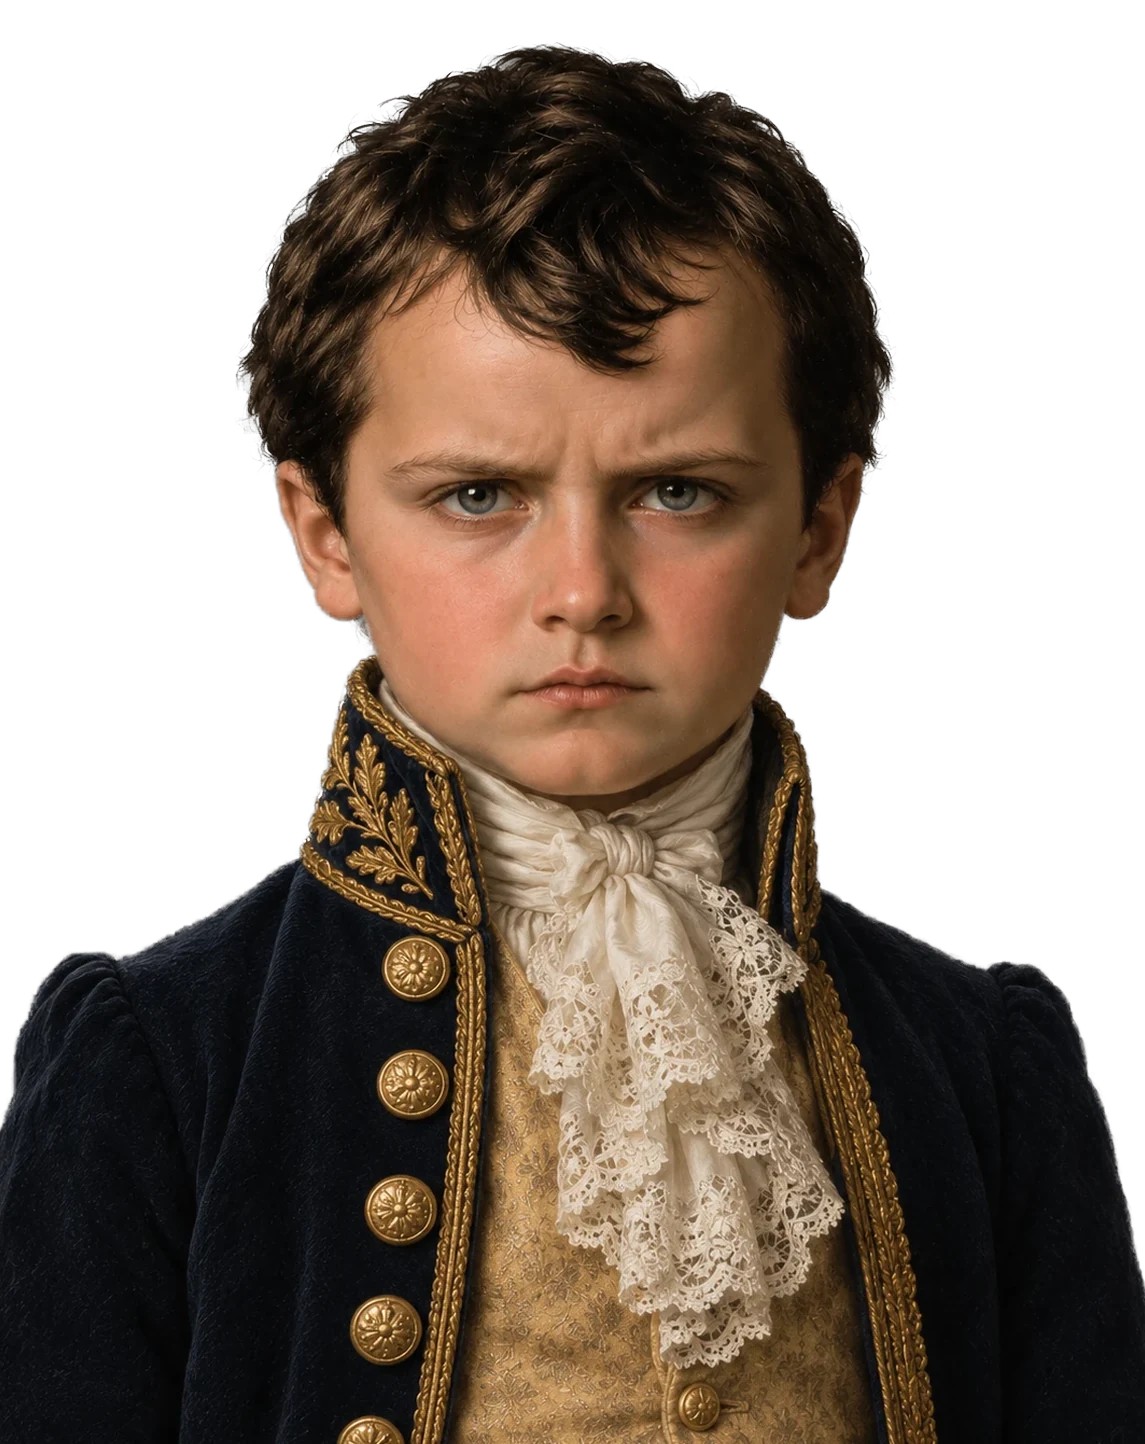
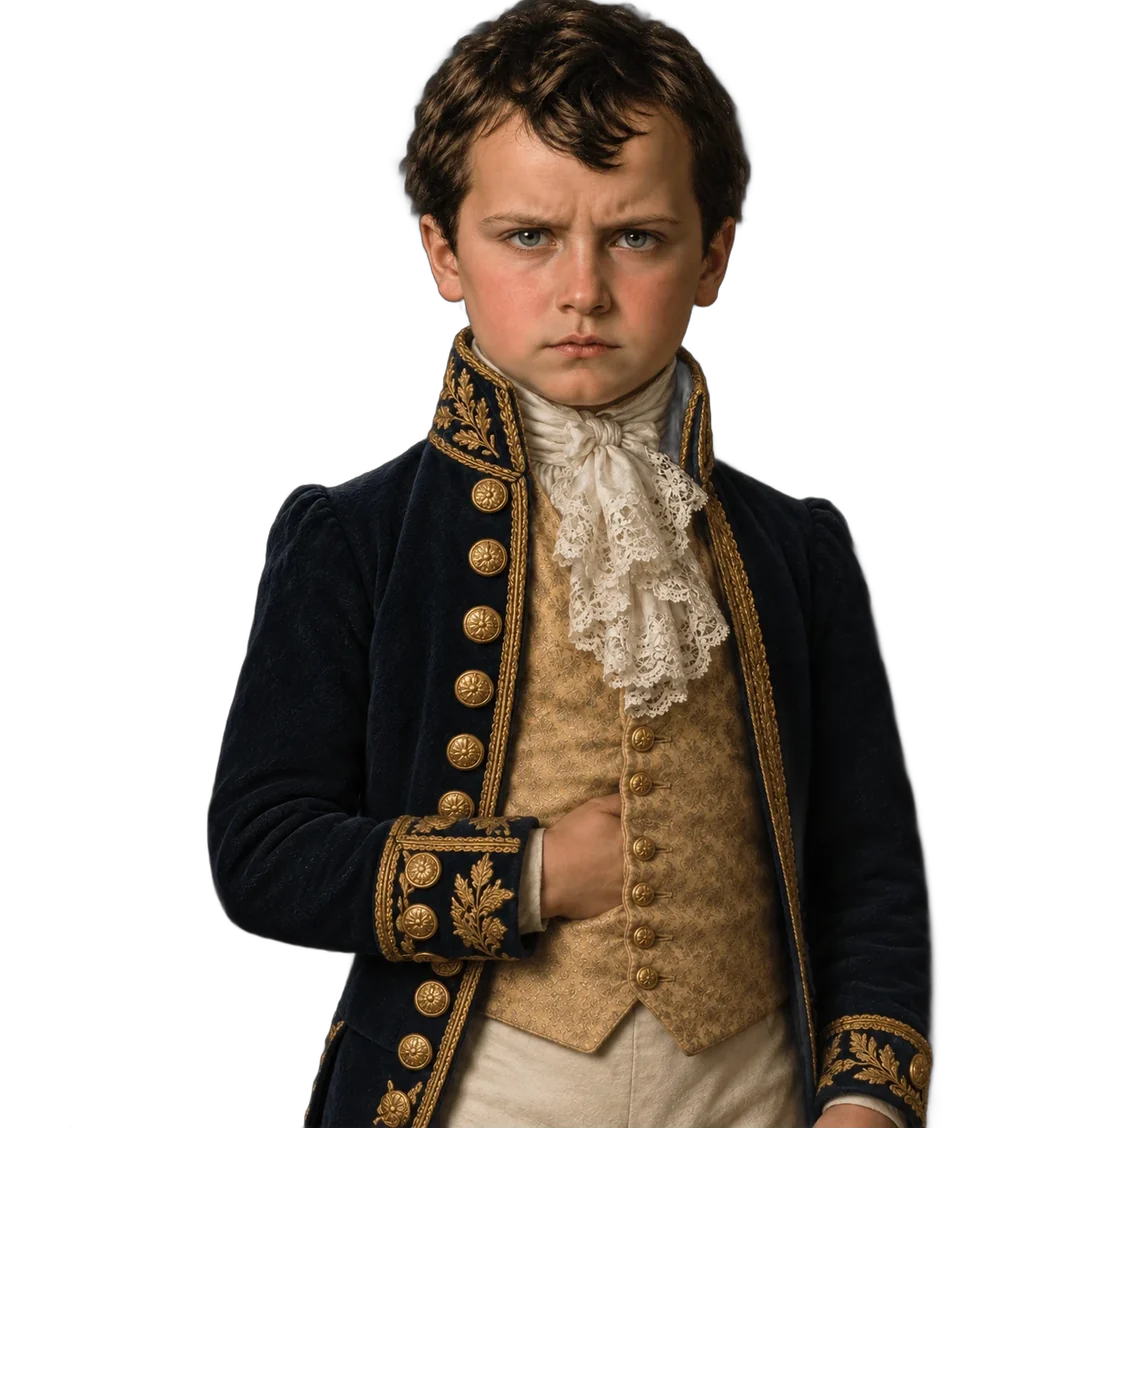
Grotte Napoléon : Napoléon et l'enfant cadrés jusqu'à la taille
Claude-Session: https://claude.ai/code/session_01Tg9JuPFfiTJrQ2axzwAjp1

diff --git a/clients/la-grotte-napoleon/grotte.css b/clients/la-grotte-napoleon/grotte.css
@@ -175,10 +175,12 @@ main>section:not(.chapeau),main>div,.pied{position:relative;z-index:1}
    au même endroit ; l'image a 70 px de plus en haut pour ses cheveux, d'où le décalage de 70/1444) ;
    quand le bicorne se pose, il devient l'Empereur de la tête aux pieds, comme un rideau qui descend (grotte.js) */
 /* l'enfant, lui, reste visible sous la même ligne (--le, la ligne ramenée à son cadre) : la transformation descend de la tête vers le corps */
-.portrait .enfant{position:absolute;left:0;top:0;width:100%;height:auto;max-width:none;transform:translateY(-4.8476%);-webkit-mask-image:linear-gradient(to bottom,transparent calc(var(--le,-1) * 100% - 14.27%),#000 calc(var(--le,-1) * 100% + 14.27%)),linear-gradient(to right,transparent 0,#000 7%,#000 93%,transparent 100%);-webkit-mask-composite:source-in;mask-image:linear-gradient(to bottom,transparent calc(var(--le,-1) * 100% - 14.27%),#000 calc(var(--le,-1) * 100% + 14.27%)),linear-gradient(to right,transparent 0,#000 7%,#000 93%,transparent 100%);mask-composite:intersect}
+.portrait .enfant{position:absolute;left:0;top:0;width:100%;height:auto;max-width:none;-webkit-mask-image:linear-gradient(to bottom,transparent calc(var(--le,-1) * 100% - 15%),#000 calc(var(--le,-1) * 100% + 15%)),linear-gradient(to right,transparent 0,#000 7%,#000 93%,transparent 100%);-webkit-mask-composite:source-in;mask-image:linear-gradient(to bottom,transparent calc(var(--le,-1) * 100% - 15%),#000 calc(var(--le,-1) * 100% + 15%)),linear-gradient(to right,transparent 0,#000 7%,#000 93%,transparent 100%);mask-composite:intersect}
 @media (prefers-reduced-motion:reduce){.portrait .enfant{display:none}}
 /* le bicorne enfoncé sur la tête comme sur les tableaux : le bord juste au-dessus des sourcils */
 .bicorne{position:absolute;left:5%;top:-13%;width:90%;height:auto;transform-origin:50% 85%;will-change:transform;filter:drop-shadow(0 18px 22px rgba(0,0,0,.45))}
+.portrait:not(.sacre):not(.josephine) .bicorne{left:27.2%;top:-4.8%;width:47.07%}  /* napoleon.webp cadré jusqu'à la taille (3 novembre 2026) : la tête y est 1,91 fois plus petite */
+.portrait:not(.sacre):not(.josephine) .ombre-chapeau{left:37.1%;width:27.2%;top:9.6%;height:6.3%}
 .ouv-suite{padding:clamp(56px,8vw,110px) 0 0}
 .ouv-suite .page{display:grid;gap:28px;justify-items:start}
 .ouv-suite p:not(.eyebrow){font-family:var(--serif);font-size:clamp(1.7rem,1.2rem + 2.1vw,3.1rem);line-height:1.12;color:var(--ink);letter-spacing:-.015em;max-width:24ch;text-wrap:balance}
@@ -211,8 +213,8 @@ main>section:not(.chapeau),main>div,.pied{position:relative;z-index:1}
   .portrait{bottom:auto;top:var(--haut);width:var(--pw)}
   .portrait.sacre{width:calc(var(--pw) * 1.707);top:calc(var(--haut) - var(--ph) * .179)}
   /* tous les personnages à la taille du Napoléon de la boutique (demande de l'utilisateur), les yeux sur la même ligne (--haut + .3092 × --ph) :
-     Napoléon de l'accueil (et l'enfant) agrandi de 1,1 (yeux à .3071 de son image), Joséphine de 1,72 (yeux à .2948) */
-  .portrait:not(.sacre):not(.josephine){width:calc(var(--pw) * 1.1);top:calc(var(--haut) + var(--ph) * (.3092 - .3071 * 1.1))}
+     Napoléon de l'accueil (et l'enfant), cadré jusqu'à la taille pour qu'on voie ses bras, agrandi de 2,09 (yeux à .1739 de son image), Joséphine de 1,72 (yeux à .2948) */
+  .portrait:not(.sacre):not(.josephine){width:calc(var(--pw) * 2.09);top:calc(var(--haut) + var(--ph) * (.3092 - .1739 * 2.09))}
   .portrait.josephine{width:calc(var(--pw) * 1.72);top:calc(var(--haut) + var(--ph) * (.3092 - .2948 * 1.72))}
   .scene::after{content:"";position:absolute;inset:0;z-index:2;pointer-events:none;background:linear-gradient(to bottom,rgba(22,20,17,.9) 0,rgba(22,20,17,.55) 20%,transparent 32%,transparent 58%,rgba(22,20,17,.75) 70%,rgba(22,20,17,.96) 84%)}
   .ouverture-texte{margin-top:0;align-self:stretch;grid-template-rows:auto minmax(0,1fr)}
@@ -747,7 +749,7 @@ body[data-titre="meta-reserver"]{--barre:0px}
   .portrait{left:50%;top:calc(100vh - var(--ph));height:var(--ph)}
   .portrait.sacre{height:calc(var(--ph) * 1.707);top:calc(100vh - var(--ph) * 1.179)}
   /* tous les personnages à la taille du Napoléon de la boutique, les yeux sur la même ligne (100vh − .6908 × --ph) */
-  .portrait:not(.sacre):not(.josephine){height:calc(var(--ph) * 1.1);top:calc(100vh - var(--ph) * (.6908 + .3071 * 1.1))}
+  .portrait:not(.sacre):not(.josephine){height:calc(var(--ph) * 2.09);top:calc(100vh - var(--ph) * (.6908 + .1739 * 2.09))}
   .portrait.josephine{height:calc(var(--ph) * 1.72);top:calc(100vh - var(--ph) * (.6908 + .2948 * 1.72))}
 }
 @media (prefers-reduced-motion:reduce){.flotte-panneau{transition:none}}

diff --git a/clients/la-grotte-napoleon/grotte.js b/clients/la-grotte-napoleon/grotte.js
@@ -191,7 +191,7 @@
        une large bande (30 % de la hauteur) où les deux se mêlent, sans ligne marquée ; l'enfant disparaît tout à fait à la fin */
     if (enfant) {
       const x = borne((p - .6) / .36), d = x * x * (3 - 2 * x), l = -.2 + 1.45 * d;
-      portrait.style.setProperty("--l", l.toFixed(4)); portrait.style.setProperty("--le", (l * .95152 + .04848).toFixed(4)); /* la même ligne dans le cadre de l’enfant (70 px de plus en haut) */
+      portrait.style.setProperty("--l", l.toFixed(4)); portrait.style.setProperty("--le", l.toFixed(4));
       enfant.style.visibility = x >= 1 ? "hidden" : "";
     }
     if (accroche) { const f = borne(p / .14); accroche.style.opacity = (1 - f).toFixed(3); accroche.style.transform = `translate3d(0,${(f * -10).toFixed(1)}px,0)`; accroche.style.visibility = f >= 1 ? "hidden" : ""; }

diff --git a/clients/la-grotte-napoleon/produit.html b/clients/la-grotte-napoleon/produit.html
@@ -8,7 +8,7 @@
 <meta name="robots" content="noindex">
 <meta name="theme-color" content="#161411">
 <link rel="icon" href="images/couronne.png">
-<link rel="stylesheet" href="grotte.css?v=20261103d">
+<link rel="stylesheet" href="grotte.css?v=20261103e">
 </head>
 <body data-titre="meta-produit">
 <div class="maquette" data-t="bandeau">Maquette préparée par Saitora pour La Grotte Napoléon : à valider ensemble avant la mise en ligne.</div>
@@ -89,8 +89,8 @@
   <a href="./#venir" data-t="barre-plan">Plan</a>
 </div>
 
-<script src="produits.js?v=20261103d"></script>
-<script src="textes.js?v=20261103d"></script>
-<script src="grotte.js?v=20261103d"></script>
+<script src="produits.js?v=20261103e"></script>
+<script src="textes.js?v=20261103e"></script>
+<script src="grotte.js?v=20261103e"></script>
 </body>
 </html>

diff --git a/clients/la-grotte-napoleon/panier.html b/clients/la-grotte-napoleon/panier.html
@@ -8,7 +8,7 @@
 <meta name="robots" content="noindex">
 <meta name="theme-color" content="#161411">
 <link rel="icon" href="images/couronne.png">
-<link rel="stylesheet" href="grotte.css?v=20261103d">
+<link rel="stylesheet" href="grotte.css?v=20261103e">
 </head>
 <body data-titre="meta-panier">
 <div class="maquette" data-t="bandeau">Maquette préparée par Saitora pour La Grotte Napoléon : à valider ensemble avant la mise en ligne.</div>
@@ -79,8 +79,8 @@
   <a href="./#venir" data-t="barre-plan">Plan</a>
 </div>
 
-<script src="produits.js?v=20261103d"></script>
-<script src="textes.js?v=20261103d"></script>
-<script src="grotte.js?v=20261103d"></script>
+<script src="produits.js?v=20261103e"></script>
+<script src="textes.js?v=20261103e"></script>
+<script src="grotte.js?v=20261103e"></script>
 </body>
 </html>

diff --git a/clients/la-grotte-napoleon/boutique.html b/clients/la-grotte-napoleon/boutique.html
@@ -8,7 +8,7 @@
 <meta name="robots" content="noindex">
 <meta name="theme-color" content="#161411">
 <link rel="icon" href="images/couronne.png">
-<link rel="stylesheet" href="grotte.css?v=20261103d">
+<link rel="stylesheet" href="grotte.css?v=20261103e">
 </head>
 <body class="btq" data-titre="meta-boutique">
 <div class="maquette" data-t="bandeau">Maquette préparée par Saitora pour La Grotte Napoléon : à valider ensemble avant la mise en ligne.</div>
@@ -270,8 +270,8 @@
 </div>
 
 
-<script src="produits.js?v=20261103d"></script>
-<script src="textes.js?v=20261103d"></script>
-<script src="grotte.js?v=20261103d"></script>
+<script src="produits.js?v=20261103e"></script>
+<script src="textes.js?v=20261103e"></script>
+<script src="grotte.js?v=20261103e"></script>
 </body>
 </html>

diff --git a/clients/la-grotte-napoleon/reserver.html b/clients/la-grotte-napoleon/reserver.html
@@ -8,7 +8,7 @@
 <meta name="robots" content="noindex">
 <meta name="theme-color" content="#161411">
 <link rel="icon" href="images/couronne.png">
-<link rel="stylesheet" href="grotte.css?v=20261103d">
+<link rel="stylesheet" href="grotte.css?v=20261103e">
 </head>
 <body class="btq resa-ouv" data-titre="meta-reserver">
 <div class="maquette" data-t="bandeau">Maquette préparée par Saitora pour La Grotte Napoléon : à valider ensemble avant la mise en ligne.</div>
@@ -106,7 +106,7 @@
   <a href="./#venir" data-t="barre-plan">Plan</a>
 </div>
 
-<script src="textes.js?v=20261103d"></script>
-<script src="grotte.js?v=20261103d"></script>
+<script src="textes.js?v=20261103e"></script>
+<script src="grotte.js?v=20261103e"></script>
 </body>
 </html>

diff --git a/clients/la-grotte-napoleon/formules.html b/clients/la-grotte-napoleon/formules.html
@@ -8,7 +8,7 @@
 <meta name="robots" content="noindex">
 <meta name="theme-color" content="#161411">
 <link rel="icon" href="images/couronne.png">
-<link rel="stylesheet" href="grotte.css?v=20261103d">
+<link rel="stylesheet" href="grotte.css?v=20261103e">
 </head>
 <body data-titre="meta-formules">
 <div class="maquette" data-t="bandeau">Maquette préparée par Saitora pour La Grotte Napoléon : à valider ensemble avant la mise en ligne.</div>
@@ -146,7 +146,7 @@
 </div>
 
 
-<script src="textes.js?v=20261103d"></script>
-<script src="grotte.js?v=20261103d"></script>
+<script src="textes.js?v=20261103e"></script>
+<script src="grotte.js?v=20261103e"></script>
 </body>
 </html>

diff --git a/clients/la-grotte-napoleon/index.html b/clients/la-grotte-napoleon/index.html
@@ -8,7 +8,7 @@
 <meta name="robots" content="noindex">
 <meta name="theme-color" content="#161411">
 <link rel="icon" href="images/couronne.png">
-<link rel="stylesheet" href="grotte.css?v=20261103d">
+<link rel="stylesheet" href="grotte.css?v=20261103e">
 </head>
 <body data-titre="meta-titre">
 <div class="maquette" data-t="bandeau">Maquette préparée par Saitora pour La Grotte Napoléon : à valider ensemble avant la mise en ligne.</div>
@@ -213,7 +213,7 @@
 </div>
 
 
-<script src="textes.js?v=20261103d"></script>
-<script src="grotte.js?v=20261103d"></script>
+<script src="textes.js?v=20261103e"></script>
+<script src="grotte.js?v=20261103e"></script>
 </body>
 </html>

diff --git a/clients/la-grotte-napoleon/NOTES.md b/clients/la-grotte-napoleon/NOTES.md
@@ -94,3 +94,4 @@ Tout ce qui a été fait, décidé ou refusé sur ce site (repris de `ETAT.md` l
 - **Tous les personnages à la même taille (3 novembre 2026, demande de l’utilisateur : « le Napoléon de la boutique, sa taille est parfaite »)** : le Napoléon de l’accueil (et l’enfant) est agrandi de 1,1 et Joséphine de 1,72, les yeux sur la même ligne que ceux de la boutique, sur ordinateur et sur téléphone (`grotte.css`, règles `.portrait:not(.sacre):not(.josephine)` et `.portrait.josephine`). Sur téléphone, les trois portraits descendent de 22 px (`--haut`) pour que le bicorne ne touche pas le titre.
 - **Carte Google Maps dans « Venir » (3 novembre 2026, demande de l’utilisateur)** : sous la photo et les informations, un panneau sombre (épingle dorée, adresse, « Afficher la carte », phrase sur les cookies de Google) ; au clic seulement, la carte intégrée de Google Maps se charge (lien d’intégration sans clé : `google.com/maps?q=…&output=embed`, dans la langue du site), passée aux couleurs sombres par un filtre CSS. Rien n’est envoyé à Google avant le clic ; la page Confidentialité le dit. Clés `carte-btn`, `carte-note`, `carte-titre` (six langues). Pas pu être vue dans la session (google.com bloqué) : à vérifier par l’utilisateur. Pour une carte vraiment stylée (couleurs et épingle sur mesure), il faudrait l’API Maps JavaScript avec une clé Google (compte Google Cloud du père, clé limitée au domaine).
 - **« Venir » renommé (3 novembre 2026, avis : « c’est horrible »)** : le titre de la section et le lien du menu et du pied de page deviennent « Nous trouver » (corse « Truvacci ») ; le petit titre au-dessus devient « L’adresse » dans les six langues.
+- **Napoléon et l’enfant cadrés jusqu’à la taille (3 novembre 2026, demande de l’utilisateur : « qu’on voie ses bras »)** : nouvelles images faites par l’utilisateur avec ChatGPT (bras, main glissée dans le gilet ; l’enfant dans la même pose), détourées ici (rembg). L’enfant est réduit à 0,87 et calé sur l’adulte par les yeux, le nez et la bouche, dans le même cadre 1145 × 1374 : plus de décalage (`--le` = `--l`, plus de `translateY`). La tête étant 1,91 fois plus petite dans l’image, le portrait de l’accueil est agrandi de 2,09 (même taille de visage que la boutique) et le bicorne replacé (`.portrait:not(.sacre):not(.josephine) .bicorne`). À cette taille, on voit les épaules et le haut des bras sur ordinateur, pas encore la main.
